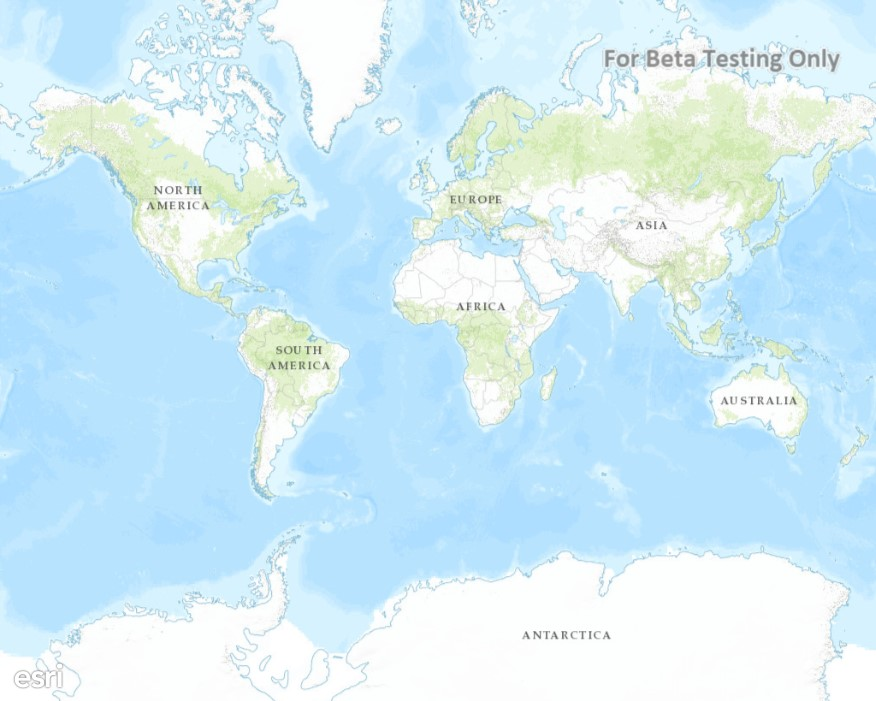
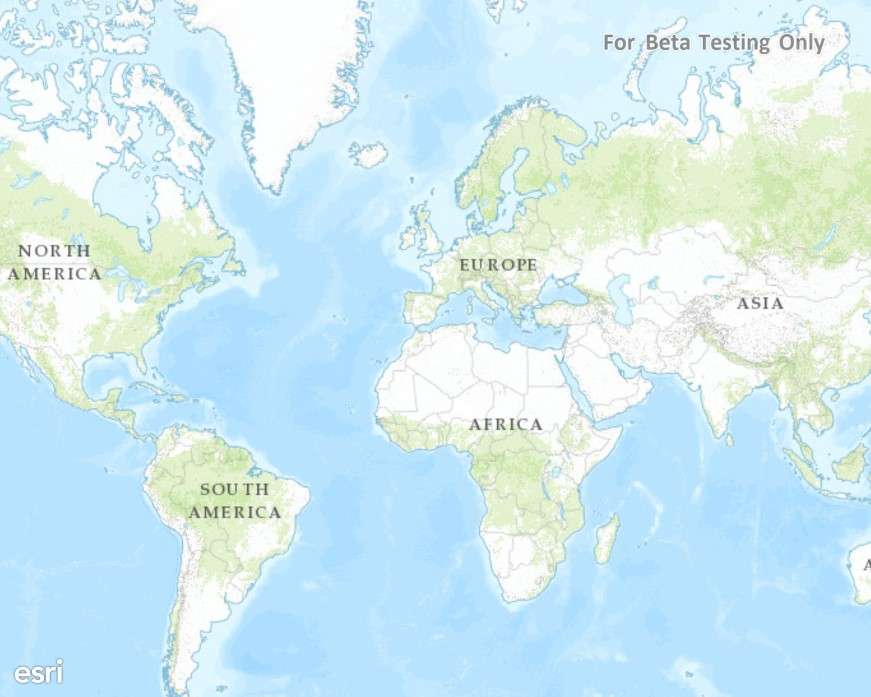
Initial Commits for TiledLayer

diff --git a/src/Desktop/ArcGISRuntime.Desktop.Samples/Samples/Layers/ArcGISTiledLayer/ArcGISTiledLayer.xaml b/src/Desktop/ArcGISRuntime.Desktop.Samples/Samples/Layers/ArcGISTiledLayer/ArcGISTiledLayer.xaml
@@ -10,8 +10,12 @@
     <Grid>
         <esri:MapView>
             <esri:Map>
-                <esri:ArcGISTiledLayer Name="Topographic"
-                    Source="http://services.arcgisonline.com/ArcGIS/rest/services/World_Topo_Map/MapServer"/>
+                <esri:Map.Basemap>
+                    <esri:Basemap>
+                        <esri:ArcGISTiledLayer Name="Topographic" 
+                            Source="http://services.arcgisonline.com/ArcGIS/rest/services/World_Topo_Map/MapServer"/>
+                    </esri:Basemap>
+                </esri:Map.Basemap>
             </esri:Map>
         </esri:MapView>
     </Grid>

diff --git a/src/Desktop/ArcGISRuntime.Desktop.Samples/Samples/Layers/ArcGISTiledLayer/ArcGISTiledLayer.xaml.cs b/src/Desktop/ArcGISRuntime.Desktop.Samples/Samples/Layers/ArcGISTiledLayer/ArcGISTiledLayer.xaml.cs
@@ -11,7 +11,6 @@
 //WITHOUT WARRANTIES OR CONDITIONS OF ANY KIND, either express or implied.
 //See the License for the specific language governing permissions and
 //limitations under the License.
-using Esri.ArcGISRuntime.Controls;
 
 namespace ArcGISRuntime.Desktop.Samples.ArcGISTiledLayer
 {
